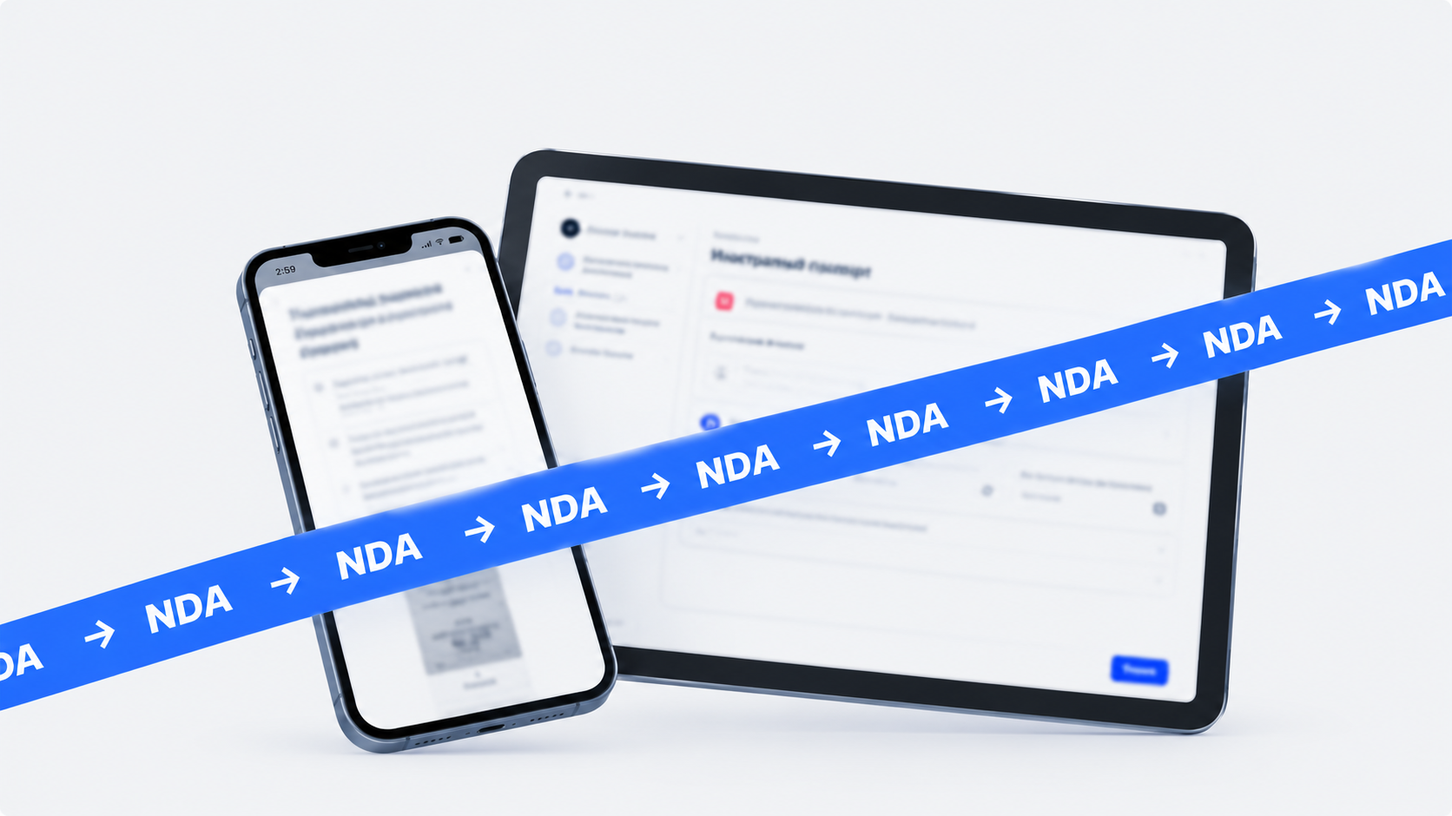
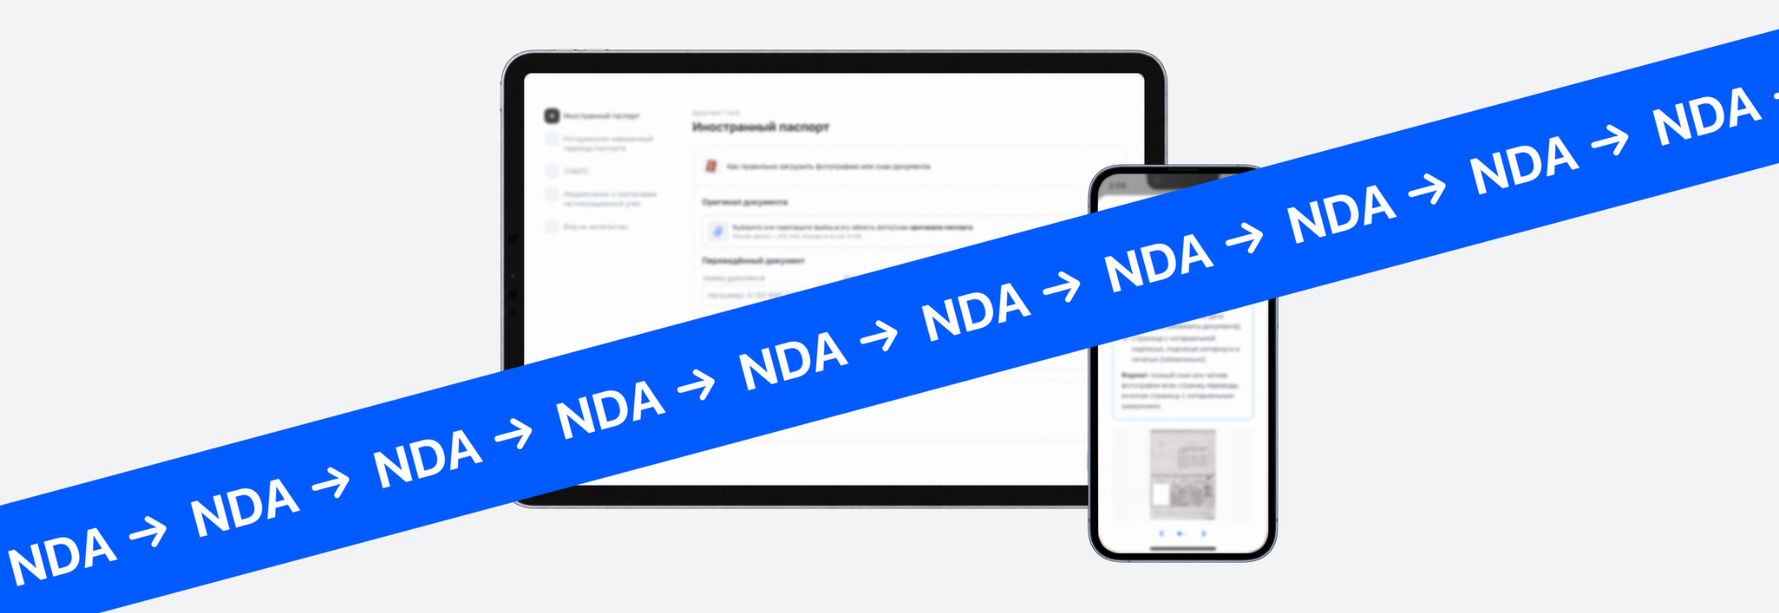
Update Ozon HR case and portfolio covers

diff --git a/src/app/data.ts b/src/app/data.ts
@@ -1,7 +1,7 @@
 export const projects=[
-{slug:"migration",title:"Редизайн миграционной анкеты Ozon",brand:"Ozon · HR",type:"B2B · Web · Mobile · NDA",image:"/projects/migration-cover.png",icon:"/projects/icon-ozon.png",year:"2026",description:"За 1,5 месяца внедрил пошаговую анкету: сократил этапы с 7 до 5 (−29%), добавил инструкции и примеры документов.",details:["Проблема: кандидаты путали поля и прикладывали неверные документы, а рекрутеры возвращались за уточнениями.","Решение: три итерации — визуальное разделение формы, переход на пошаговый сценарий и открытые требования с примерами.","Результат: решение передано в разработку и использовано как референс в соседней команде. Количественные метрики пока не подтверждены."]},
-{slug:"global",title:"Как сделать международную доставку понятнее",brand:"Ozon Global",type:"Research · Mobile · Концепт",image:"/projects/global.png",icon:"/projects/icon-ozon.png",year:"2025",description:"Провёл 3 интервью и опрос 14 пользователей, проверил 7 гипотез и разработал 2 итерации сценария международной доставки.",details:["Проблема: пользователи не всегда понимали, что товар отправляется из-за рубежа, и воспринимали дату доставки как обещание.","Исследование: интервью, опрос, анализ отзывов и проверка гипотез.","Направления улучшений: понятная маркировка международной доставки, объяснение сроков и более прозрачный трекинг. Реализация и эффект не подтверждены."]},
+{slug:"migration",title:"Редизайн миграционной анкеты Ozon",brand:"Ozon · HR",type:"B2B · Web · Mobile · NDA",image:"/projects/migration-cover.png",icon:"/projects/icon-ozon.png",year:"2026",description:"За 1,5 месяца внедрил пошаговую анкету: сократил этапы с 7 до 5, добавил инструкции и примеры документов",details:["Проблема: кандидаты путали поля и прикладывали неверные документы, а рекрутеры возвращались за уточнениями.","Решение: три итерации — визуальное разделение формы, переход на пошаговый сценарий и открытые требования с примерами.","Результат: решение передано в разработку и использовано как референс в соседней команде. Количественные метрики пока не подтверждены."]},
+{slug:"global",title:"Как сделать международную доставку понятнее",brand:"Ozon Global",type:"E-commerce · Mobile · Concept",image:"/projects/global.png",icon:"/projects/icon-ozon.png",year:"2025",description:"Провёл 3 интервью и опрос 14 пользователей, проверил 7 гипотез и разработал 2 итерации сценария международной доставки.",details:["Проблема: пользователи не всегда понимали, что товар отправляется из-за рубежа, и воспринимали дату доставки как обещание.","Исследование: интервью, опрос, анализ отзывов и проверка гипотез.","Направления улучшений: понятная маркировка международной доставки, объяснение сроков и более прозрачный трекинг. Реализация и эффект не подтверждены."]},
 {slug:"yoko",title:"Спроектировал интерфейсы криптотрейдинга с нуля",brand:"Yoko Trade",type:"Fintech · Web · Mobile",image:"/projects/yoko.png",icon:"/projects/icon-yoko.png",year:"2023–2024",description:"За 3 месяца спроектировал MVP с нуля, разработал библиотеку для веба и мобильных экранов и протестировал сценарии.",details:["Контекст: продукт стартовал без готовой структуры и интерфейсов.","Процесс: анализ конкурентов, сегментация пользователей, интервью, user flows и прототипы.","Решение: интерфейсы для веба и мобильных устройств, библиотека компонентов, история пополнений, реферальная программа и настройки бота."]},
-{slug:"maxim",title:"Сделал сценарий заказа такси прозрачнее",brand:"Maxim",type:"Concept · Mobile",image:"/projects/maxim.png",icon:"/projects/icon-maxim.png",year:"2025",description:"Спроектировал концепт более понятного заказа такси: от выбора адреса и тарифа до ожидания автомобиля.",details:["Цель: сделать процесс заказа и ожидания автомобиля понятнее.","Проектирование: маршрут выбора адреса, тарифа, поиска машины и изменения стоимости.","Это концепт-проект: результаты внедрения не заявляются."]},
+{slug:"maxim",title:"Сделал сценарий заказа такси прозрачнее",brand:"Maxim",type:"B2C · Concept · Mobile",image:"/projects/maxim.png",icon:"/projects/icon-maxim.png",year:"2025",description:"Спроектировал концепт более понятного заказа такси: от выбора адреса и тарифа до ожидания автомобиля.",details:["Цель: сделать процесс заказа и ожидания автомобиля понятнее.","Проектирование: маршрут выбора адреса, тарифа, поиска машины и изменения стоимости.","Это концепт-проект: результаты внедрения не заявляются."]},
 {slug:"learning",title:"Работа с переводами учебных материалов",brand:"Ozon · Learning",type:"B2B · Web · NDA",image:"/projects/learning.png",year:"2026",description:"Интерфейс управления переводами и связывания материалов во внутреннем обучающем сервисе.",details:["Показан пример интерфейса редактирования материала и добавления перевода.","Перед публикацией требуется согласование материалов с владельцем продукта."]}
 ];export type Project=(typeof projects)[number];

diff --git a/src/app/home-client.tsx b/src/app/home-client.tsx
@@ -8,12 +8,12 @@ export default function HomeClient({projects,profile}:{projects:any[],profile:an
  return <div className="portfolio">
   <header className="topbar"><div className="topbar__inner">
    <Link href="/" className="brandmark"><Image className="brandmark__ava" src={profile.avatar} alt="" width={40} height={40}/><span className="brandmark__name">{profile.name}</span></Link>
-   <nav className="pillnav" aria-label="Контакты"><a className="pill" href={`mailto:${profile.email}`}>Почта</a><a className="pill" href={profile.telegram} target="_blank" rel="noreferrer">Telegram</a>{profile.resumeUrl?<a className="pill pill--dark" href={profile.resumeUrl} download="Альшевский Андрей.pdf">Скачать резюме</a>:<span className="pill pill--dark pill--disabled">Скачать резюме</span>}</nav>
+   <nav className="pillnav" aria-label="Контакты"><a className="pill" href={`mailto:${profile.email}`}>Почта</a>{profile.resumeUrl?<a className="pill" href={profile.resumeUrl} download="Альшевский Андрей.pdf">Скачать резюме</a>:<span className="pill pill--dark pill--disabled">Скачать резюме</span>}<a className="pill pill--dark" href={profile.telegram} target="_blank" rel="noreferrer">Telegram</a></nav>
   </div></header>
-  <main><section className="hero"><h1 className="hero__title">{profile.headline}<br/><span className="hero__sub">{profile.bio}</span></h1></section>
+  <main><section className="hero"><h1 className="hero__title">{`Привет, я — Андрей, продуктовый дизайнер`}<br/><span className="hero__sub">{`Проектирую интерфейсы для приложений и веба, работаю с продуктами в сферах B2B, e-commerce и fintech, включая опыт работы в Ozon`}</span></h1></section>
    <div className="shell"><div className="tabs" role="tablist" aria-label="Разделы портфолио"><button type="button" role="tab" className="tabs__btn" aria-selected={tab==='cases'} onClick={()=>setTab('cases')}>Кейсы</button><button type="button" role="tab" className="tabs__btn" aria-selected={tab==='visual'} onClick={()=>setTab('visual')}>Визуал</button></div>
-    {tab==='cases'?<section className="grid" id="work" role="tabpanel">{projects.slice(0,4).map((p:any,i:number)=><Link onMouseMove={e=>{const bubble=e.currentTarget.querySelector<HTMLElement>('.card__hover-open');if(bubble){const r=e.currentTarget.getBoundingClientRect();bubble.style.left=`${e.clientX-r.left}px`;bubble.style.top=`${e.clientY-r.top}px`}}} href={`/projects/${p.slug}`} className={`card ${i===0||i===3?'card--wide':''}`} key={p.slug}>{(p.nda === true || p.type.split(' · ').includes('NDA')) && <span className="card__nda" aria-label="Проект под NDA"><svg viewBox="0 0 24 24" aria-hidden="true"><rect x="4" y="10" width="16" height="12" rx="2" fill="currentColor"/><path d="M8 10V7a4 4 0 0 1 8 0v3" fill="none" stroke="currentColor" strokeWidth="2.8" strokeLinecap="round"/></svg>NDA</span>}<div className="card__head"><div className="card__body"><div className="card__text"><p className="card__title">{p.icon&&<Image className="card__logo" src={p.icon} alt="" width={24} height={24}/>}<span>{p.brand}</span></p><p className="card__desc">{p.description}</p></div><ul className="tags card__tags">{p.type.split(' · ').filter((t:string)=>t && t!=='NDA').map((t:string)=><li key={t}>{t}</li>)}</ul></div></div><div className="card__art portfolio-art"><Image src={({migration:'/projects/home-migration-cover.png',global:'/projects/home-global-cover.png',yoko:'/projects/home-yoko-cover.png',maxim:'/projects/home-maxim-cover.png'} as Record<string,string>)[p.slug] || p.image} alt={p.brand} fill sizes="(max-width:800px) 100vw, 1160px" unoptimized={p.image.startsWith('https://')}/></div><HoverOpen/></Link>)}</section>:<section style={{padding:'70px 0',textAlign:'center',color:'#949aa4'}}>Раздел «Визуал» появится позже.</section>}
+    {tab==='cases'?<section className="grid" id="work" role="tabpanel">{projects.slice(0,4).map((p:any,i:number)=><Link onMouseMove={e=>{const bubble=e.currentTarget.querySelector<HTMLElement>('.card__hover-open');if(bubble){const r=e.currentTarget.getBoundingClientRect();bubble.style.left=`${e.clientX-r.left}px`;bubble.style.top=`${e.clientY-r.top}px`}}} href={`/projects/${p.slug}`} className={`card ${i===0||i===3?'card--wide':''}`} key={p.slug}>{(p.nda === true || p.type.split(' · ').includes('NDA')) && <span className="card__nda" aria-label="Проект под NDA"><svg viewBox="0 0 24 24" aria-hidden="true"><rect x="4" y="10" width="16" height="12" rx="2" fill="currentColor"/><path d="M8 10V7a4 4 0 0 1 8 0v3" fill="none" stroke="currentColor" strokeWidth="2.8" strokeLinecap="round"/></svg>NDA</span>}<div className="card__head"><div className="card__body"><div className="card__text"><p className="card__title">{p.icon&&<Image className="card__logo" src={p.icon} alt="" width={24} height={24}/>}<span>{p.brand}</span></p><p className="card__desc">{p.slug==='migration'?'За 1,5 месяца внедрил пошаговую анкету: сократил этапы с 7 до 5, добавил инструкции и примеры документов':p.description.replace(/[.。]\s*$/,'')}</p></div><ul className="tags card__tags">{(p.slug==='global'?'E-commerce · Mobile · Concept':p.slug==='maxim'?'B2C · Concept · Mobile':p.type).split(' · ').filter((t:string)=>t && t!=='NDA').map((t:string)=><li key={t}>{t}</li>)}</ul></div></div><div className="card__art portfolio-art"><Image src={({migration:'/projects/home-migration-cover.png',global:'/projects/home-global-cover.png',yoko:'/projects/home-yoko-cover.png',maxim:'/projects/home-maxim-cover.png'} as Record<string,string>)[p.slug] || p.image} alt={p.brand} fill sizes="(max-width:800px) 100vw, 1160px" unoptimized={p.image.startsWith('https://')}/></div><HoverOpen/></Link>)}</section>:<section style={{padding:'70px 0',textAlign:'center',color:'#949aa4'}}>Раздел «Визуал» появится позже.</section>}
    </div>
-  </main><footer className="footer"><nav className="footer__nav"><a className="pill" href={`mailto:${profile.email}`}>Почта</a><a className="pill" href={profile.telegram}>Telegram</a>{profile.resumeUrl&&<a className="pill pill--dark" href={profile.resumeUrl} download="Альшевский Андрей.pdf">Скачать резюме</a>}</nav><p className="footer__copy">{profile.name} © 2026</p></footer>
+  </main><footer className="footer"><nav className="footer__nav"><a className="pill" href={`mailto:${profile.email}`}>Почта</a>{profile.resumeUrl&&<a className="pill" href={profile.resumeUrl} download="Альшевский Андрей.pdf">Скачать резюме</a>}<a className="pill pill--dark" href={profile.telegram} target="_blank" rel="noreferrer">Telegram</a></nav><p className="footer__copy">{profile.name} © 2026</p></footer>
  </div>;
 }

diff --git a/src/app/projects/[slug]/page.tsx b/src/app/projects/[slug]/page.tsx
@@ -88,7 +88,7 @@ export default async function Case({params}:{params:Promise<{slug:string}>}){
    : renderNode(node,i);
  const others=projects.filter((x:any)=>x.slug!==slug).slice(0,3);
  const homeCovers:Record<string,string>={migration:'/projects/home-migration-cover.png',global:'/projects/home-global-cover.png',yoko:'/projects/home-yoko-cover.png',maxim:'/projects/home-maxim-cover.png'};
- return <div className="portfolio"><div className="case__progress"/><header className="topbar"><div className="topbar__inner"><Link className="brandmark" href="/"><Image className="brandmark__ava" src={profile.avatar} alt="" width={40} height={40}/><span className="brandmark__name">{profile.name}</span></Link><nav className="pillnav"><a className="pill" href={`mailto:${profile.email}`}>Почта</a><a className="pill" href={profile.telegram} target="_blank" rel="noreferrer">Telegram</a>{profile.resumeUrl?<a className="pill pill--dark" href={profile.resumeUrl} download="Альшевский Андрей.pdf">Скачать резюме</a>:<span className="pill pill--dark pill--disabled">Скачать резюме</span>}</nav></div></header>
+ return <div className="portfolio"><div className="case__progress"/><header className="topbar"><div className="topbar__inner"><Link className="brandmark" href="/"><Image className="brandmark__ava" src={profile.avatar} alt="" width={40} height={40}/><span className="brandmark__name">{profile.name}</span></Link><nav className="pillnav"><a className="pill" href={`mailto:${profile.email}`}>Почта</a>{profile.resumeUrl?<a className="pill" href={profile.resumeUrl} download="Альшевский Андрей.pdf">Скачать резюме</a>:<span className="pill pill--dark pill--disabled">Скачать резюме</span>}<a className="pill pill--dark" href={profile.telegram} target="_blank" rel="noreferrer">Telegram</a></nav></div></header>
  <main><article className="case case--kommo"><p className="case__lead">{slug==='migration'?'Редизайн миграционной анкеты Ozon':slug==='yoko'?'Yoko trade':slug==='maxim'?'Maxim — улучшение сценария заказа такси':custom?.lead||p.description}</p><ul className="tags case__tags">{p.type.split(' · ').filter((t:string)=>t && t!=='NDA').map((t:string)=><li key={t}>{t}</li>)}</ul>
  <dl className="case__meta"><div><dt>Моя роль</dt><dd>{custom?.role||'Продуктовый дизайнер'}</dd></div><div className="case__meta-pair"><div><dt>Год</dt><dd>{p.year}</dd></div><div><dt>Проект</dt><dd>{p.brand}</dd></div></div></dl>
  {slug!=='migration'&&slug!=='yoko'&&slug!=='global'&&slug!=='maxim'&&<div className="case__brief"><div><h2>Задача</h2><p>{slug==='migration'?'Полностью переработать UX/UI анкеты, сделать сценарий понятнее пользователям с разным уровнем цифровой грамотности и снизить количество ошибок при заполнении.':custom?.task||p.description}</p></div><div><h2>Результаты</h2><p>{slug==='migration'?'Финальное решение согласовано и передано в разработку. Сценарий сокращён до пяти обязательных этапов; решение использовали как референс в соседнем HR-направлении.':custom?.result||'Проектные решения и прототипы интерфейса.'}</p></div></div>}
@@ -96,5 +96,5 @@ export default async function Case({params}:{params:Promise<{slug:string}>}){
  {slug==='maxim' ? <div className="global-case maxim-case" dangerouslySetInnerHTML={{__html:fs.readFileSync(path.join(process.cwd(),'src/app/maxim-case.html'),'utf8')}}/> : slug==='yoko' ? <div className="yoko-case" dangerouslySetInnerHTML={{__html:fs.readFileSync(path.join(process.cwd(),'src/app/yoko-case.html'),'utf8')}}/> : slug==='migration' ? <OzonCaseBody/> : slug==='global' ? <GlobalCaseClient html={fs.readFileSync(path.join(process.cwd(),'src/app/global-case.html'),'utf8')}/> : sections.map((s,i)=><div className="case__block" key={i}>{(s.title||s.sub||s.paragraphs.length>0)&&<section className="case__section">{s.title&&<h2>{s.title}</h2>}{s.sub&&<h3>{s.sub}</h3>}<div className="case__text">{s.paragraphs.map((t,j)=><p key={j}>{t}</p>)}</div></section>}{s.image&&<figure className="shot shot--bare"><span className="shot__inset"><img src={s.image} alt={s.caption||s.sub||'Иллюстрация проекта'}/></span>{s.caption&&<figcaption>{s.caption}</figcaption>}</figure>}</div>)}
 
  <MoreCases projects={others} homeCovers={homeCovers}/>
- </article></main><footer className="footer"><nav className="footer__nav"><a className="pill" href={`mailto:${profile.email}`}>Почта</a><a className="pill" href={profile.telegram}>Telegram</a>{profile.resumeUrl&&<a className="pill pill--dark" href={profile.resumeUrl} download="Альшевский Андрей.pdf">Скачать резюме</a>}</nav><p className="footer__copy">{profile.name} © 2026</p></footer></div>;
+ </article></main><footer className="footer"><nav className="footer__nav"><a className="pill" href={`mailto:${profile.email}`}>Почта</a>{profile.resumeUrl&&<a className="pill" href={profile.resumeUrl} download="Альшевский Андрей.pdf">Скачать резюме</a>}<a className="pill pill--dark" href={profile.telegram} target="_blank" rel="noreferrer">Telegram</a></nav><p className="footer__copy">{profile.name} © 2026</p></footer></div>;
 }

diff --git a/src/app/projects/ozon-hr-buildin/page.tsx b/src/app/projects/ozon-hr-buildin/page.tsx
@@ -8,8 +8,8 @@ export function block(n:Node,i:number):React.ReactNode{const ch=n.children||[];
 if(n.type==='blank_line'||n.type==='thematic_break')return null;
 if(n.type==='heading'){const t=inline(ch);return n.attrs?.level===1?<h2 key={i}>{t}</h2>:n.attrs?.level===2?<h3 key={i}>{t}</h3>:<h4 key={i}>{t}</h4>}
 if(n.type==='paragraph'){const img=ch.find(c=>c.type==='image');if(img)return <figure key={i}><img src={img.attrs?.url} alt="Экран миграционной анкеты" loading="lazy"/></figure>;const plain=ch.map(c=>c.raw||'').join('').trim();
-if(plain==='Пользователь должен сразу понимать, что сейчас нужно сделать, какой документ приложить и что делать, если он не знает, как это сделать.')return <aside key={i} className="ozon-buildin__callout ozon-buildin__callout--info"><span aria-hidden="true">ℹ</span><div>{inline(ch)}</div></aside>;
-if(plain==='Изначальная версия интерфейса была ориентирована на опытных пользователей, поэтому для целевой аудитории некоторые элементы и сценарии взаимодействия оказались недостаточно понятными и интуитивными.')return <aside key={i} className="ozon-buildin__callout ozon-buildin__callout--warning"><span aria-hidden="true">⚠</span><div>{inline(ch)}</div></aside>;
+if(plain==='Пользователь должен сразу понимать, что сейчас нужно сделать, какой документ приложить и что делать, если он не знает, как это сделать.')return <aside key={i} className="ozon-buildin__callout ozon-buildin__callout--info"><span className="ozon-buildin__info-icon" aria-hidden="true"><svg viewBox="0 0 24 24" fill="none"><circle cx="12" cy="12" r="12" fill="#0788FF"/><circle cx="12" cy="6.8" r="1.45" fill="white"/><path d="M12 10.6v7" stroke="white" strokeWidth="2.2" strokeLinecap="round"/></svg></span><div>{inline(ch)}</div></aside>;
+if(plain==='Изначальная версия интерфейса была ориентирована на опытных пользователей, поэтому для целевой аудитории некоторые элементы и сценарии взаимодействия оказались недостаточно понятными и интуитивными.')return <aside key={i} className="ozon-buildin__callout ozon-buildin__callout--warning"><span className="ozon-buildin__warning-icon" aria-hidden="true"><svg viewBox="0 0 24 24" fill="none"><circle cx="12" cy="12" r="12" fill="#FFC400"/><circle cx="12" cy="7.5" r="1.45" fill="white"/><path d="M12 11v6" stroke="white" strokeWidth="2.2" strokeLinecap="round"/></svg></span><div>{inline(ch)}</div></aside>;
 if(ch.some(c=>c.type==='softbreak')&&ch.some(c=>c.type==='strong'&&c.children?.[0]?.raw==='Роль:'))return <div key={i} className="ozon-buildin__facts">{inline(ch)}</div>;
 return <p key={i}>{inline(ch)}</p>}
 if(n.type==='list'){const Tag=n.attrs?.ordered?'ol':'ul';return <Tag key={i}>{ch.map((li,j)=><li key={j}>{(li.children||[]).map((v,k)=><span key={k}>{inline(v.children||[])}</span>)}</li>)}</Tag>}
@@ -33,5 +33,5 @@ export function OzonCaseBody(){
   if(n.type==='thematic_break'||n.type==='blank_line')continue;
   groups[groups.length-1].nodes.push(n);
  }
- return <div className="ozon-buildin ozon-buildin--embedded"><div className="ozon-buildin__document">{groups.map((g,i)=><section className="ozon-buildin__chapter" key={g.heading}>{g.nodes.map(block)}<hr className="ozon-buildin__chapter-divider"/></section>)}</div></div>;
+ return <div className="ozon-buildin ozon-buildin--embedded"><div className="ozon-buildin__document">{groups.map(g=>{const isProcess=g.heading==='Процесс';const entries:React.ReactNode[]=[];let acc:Node[]=[];let active=false;let index=0;const flush=()=>{if(acc.length){entries.push(<details className="ozon-buildin__iteration-details" key={'accordion-'+index++}><summary>Процесс</summary><div className="ozon-buildin__iteration-content">{acc.map(block)}</div></details>);acc=[]}};for(const n of g.nodes){const heading=n.type==='heading'&&n.attrs?.level===2;const title=heading?(n.children||[]).map(c=>c.raw||'').join(''):'';if(heading){flush();active=/^(Первая|Вторая) итерация/.test(title)}if(active&&n.type==='paragraph'&&!(n.children||[]).some(c=>c.type==='image')){acc.push(n);continue}if(active&&n.type==='list'){acc.push(n);continue}if(active&&n.type==='heading'&&n.attrs?.level===3){acc.push(n);continue}if(active&&n.type==='paragraph'&&(n.children||[]).some(c=>c.type==='image')){flush();entries.push(block(n,index++));continue}if(!active)flush();entries.push(block(n,index++))}flush();return <section className="ozon-buildin__chapter" key={g.heading}>{isProcess?entries:g.nodes.map(block)}<hr className="ozon-buildin__chapter-divider"/></section>})}</div></div>;
 }

diff --git a/src/app/projects/ozon-hr-buildin/buildin.css b/src/app/projects/ozon-hr-buildin/buildin.css
@@ -22,12 +22,31 @@
 /* Buildin-like structured project facts and semantic callouts. */
 .ozon-buildin__facts{margin:28px 0 22px;line-height:1.55}
 .ozon-buildin__facts strong{font-weight:700}
-.ozon-buildin__callout{display:flex;align-items:flex-start;gap:12px;padding:15px 18px;border-radius:10px;margin:12px 0 16px;line-height:1.6}
-.ozon-buildin__callout>span{flex:0 0 25px;font-size:22px;line-height:1.4}
+.ozon-buildin__callout{display:flex;align-items:flex-start;gap:12px;padding:20px;border:4px solid transparent;border-radius:20px;margin:12px 0 16px;line-height:1.6;box-sizing:border-box;background:#fff}
+.ozon-buildin__callout>span{display:flex;flex:0 0 24px;width:24px;height:24px;line-height:1;margin-top:0}
 .ozon-buildin__callout>div{flex:1;min-width:0}
-.ozon-buildin__callout--info{background:#e7f5ff}
-.ozon-buildin__callout--warning{background:#fff9e1}
+.ozon-buildin__callout--info{border-color:#cceaff;background:#fff}
+.ozon-buildin__callout--warning{border-color:#fff3cc;background:#fff}
 .ozon-buildin__document h2{margin-top:40px;margin-bottom:14px}
 .ozon-buildin__document h3{margin-top:30px;margin-bottom:12px}
 .ozon-buildin__document h4{margin-top:22px;margin-bottom:9px}
-@media(max-width:720px){.ozon-buildin__document h2{font-size:27px}.ozon-buildin__document h3{font-size:23px}.ozon-buildin__document h4{font-size:19px}.ozon-buildin__callout{padding:12px 14px}}
+@media(max-width:720px){.ozon-buildin__document h2{font-size:27px}.ozon-buildin__document h3{font-size:23px}.ozon-buildin__document h4{font-size:19px}.ozon-buildin__callout{padding:20px}}
+
+/* v59: collapsible iteration notes */
+.ozon-buildin__iteration-details{margin:20px 0 32px;border:1px solid #e1e4e9;border-radius:14px;overflow:hidden}
+.ozon-buildin__iteration-details summary{cursor:pointer;padding:18px 22px;font-weight:600;list-style:none;display:flex;justify-content:space-between;align-items:center}
+.ozon-buildin__iteration-details summary::after{content:'⌄';font-size:24px;line-height:1;transition:transform .2s}
+.ozon-buildin__iteration-details[open] summary::after{transform:rotate(180deg)}
+.ozon-buildin__iteration-content{padding:0 22px 20px}
+
+/* v60: Match the understated Ozon Global accordion treatment. */
+.ozon-buildin__iteration-details{margin:18px 0 30px;border:0;border-bottom:1px solid #e7e9ed;border-radius:0;overflow:visible}
+.ozon-buildin__iteration-details summary{padding:19px 0;font-size:18px;font-weight:650;line-height:1.4;gap:14px}
+.ozon-buildin__iteration-details summary::-webkit-details-marker{display:none}
+.ozon-buildin__iteration-details summary::after{content:"";display:block;flex:0 0 12px;width:12px;height:12px;border-right:2.5px solid #888;border-bottom:2.5px solid #888;border-radius:1px;transform:translateY(-3px) rotate(45deg);transition:transform .2s}
+.ozon-buildin__iteration-details[open] summary::after{transform:translateY(3px) rotate(225deg)}
+.ozon-buildin__iteration-content{border-left:2px solid #e9eaed;margin:0 0 12px 9px;padding:0 0 20px 22px}
+@media(max-width:760px){.ozon-buildin__iteration-content{padding-left:14px}}
+
+
+.ozon-buildin__callout .ozon-buildin__info-icon svg,.ozon-buildin__callout .ozon-buildin__warning-icon svg{display:block;width:24px;height:24px;flex:none}

diff --git a/src/app/globals.css b/src/app/globals.css
@@ -1659,3 +1659,59 @@ button {
 @media(hover:hover) and (pointer:fine){.card:hover .card__hover-open{opacity:1;transform:translate(-50%,-50%) scale(1)}}
 @media(hover:none){.card__hover-open{display:none}}
 @media(max-width:800px){.case__more-nav{width:44px;height:44px}.case__more-nav--prev{left:-12px}.case__more-nav--next{right:-12px}}
+
+/* v59: secondary hero typography and carousel arrows */
+.hero__sub{font-size:22px;line-height:1.34;display:inline-block;max-width:850px}
+.case__more-nav svg{display:block;width:24px;height:24px;flex-shrink:0}
+@media(max-width:700px){.hero__sub{font-size:19px;line-height:1.32}}
+
+/* v66: Ozon HR home artwork — seamless, uncropped, no blend-mode.
+   The original PNG already has the exact island background #F2F3F5.
+   Use the complete artwork within the card's image area. */
+.grid > .card:first-child .card__art.portfolio-art {
+  position: relative;
+  inset: auto;
+  left: auto;
+  width: 100%;
+  max-width: 100%;
+  margin-top: 0;
+  background: #F2F3F5;
+  overflow: hidden;
+}
+.grid > .card:first-child .card__art.portfolio-art img {
+  position: absolute !important;
+  inset: 0 !important;
+  width: 100% !important;
+  height: 100% !important;
+  max-width: none;
+  object-fit: contain !important;
+  object-position: center center !important;
+  mix-blend-mode: normal !important;
+}
+
+/* v67: Use the user's 2048x706 (2.90:1) custom-sized cover at native
+   aspect ratio. Keep the devices large without cropping or distortion. */
+.grid > .card:first-child .card__art.portfolio-art {
+  position: relative;
+  width: 100%;
+  height: auto;
+  aspect-ratio: 2048 / 706;
+  flex: 0 0 auto;
+  margin-top: auto;
+  overflow: hidden;
+  background: #F2F3F5;
+}
+.grid > .card:first-child .card__art.portfolio-art img {
+  position: absolute !important;
+  inset: 0 !important;
+  width: 100% !important;
+  height: 100% !important;
+  object-fit: fill !important;
+  mix-blend-mode: normal !important;
+}
+@media (max-width: 1023px) {
+  .grid > .card:first-child .card__art.portfolio-art {
+    aspect-ratio: 2048 / 706;
+    margin-top: 20px;
+  }
+}
